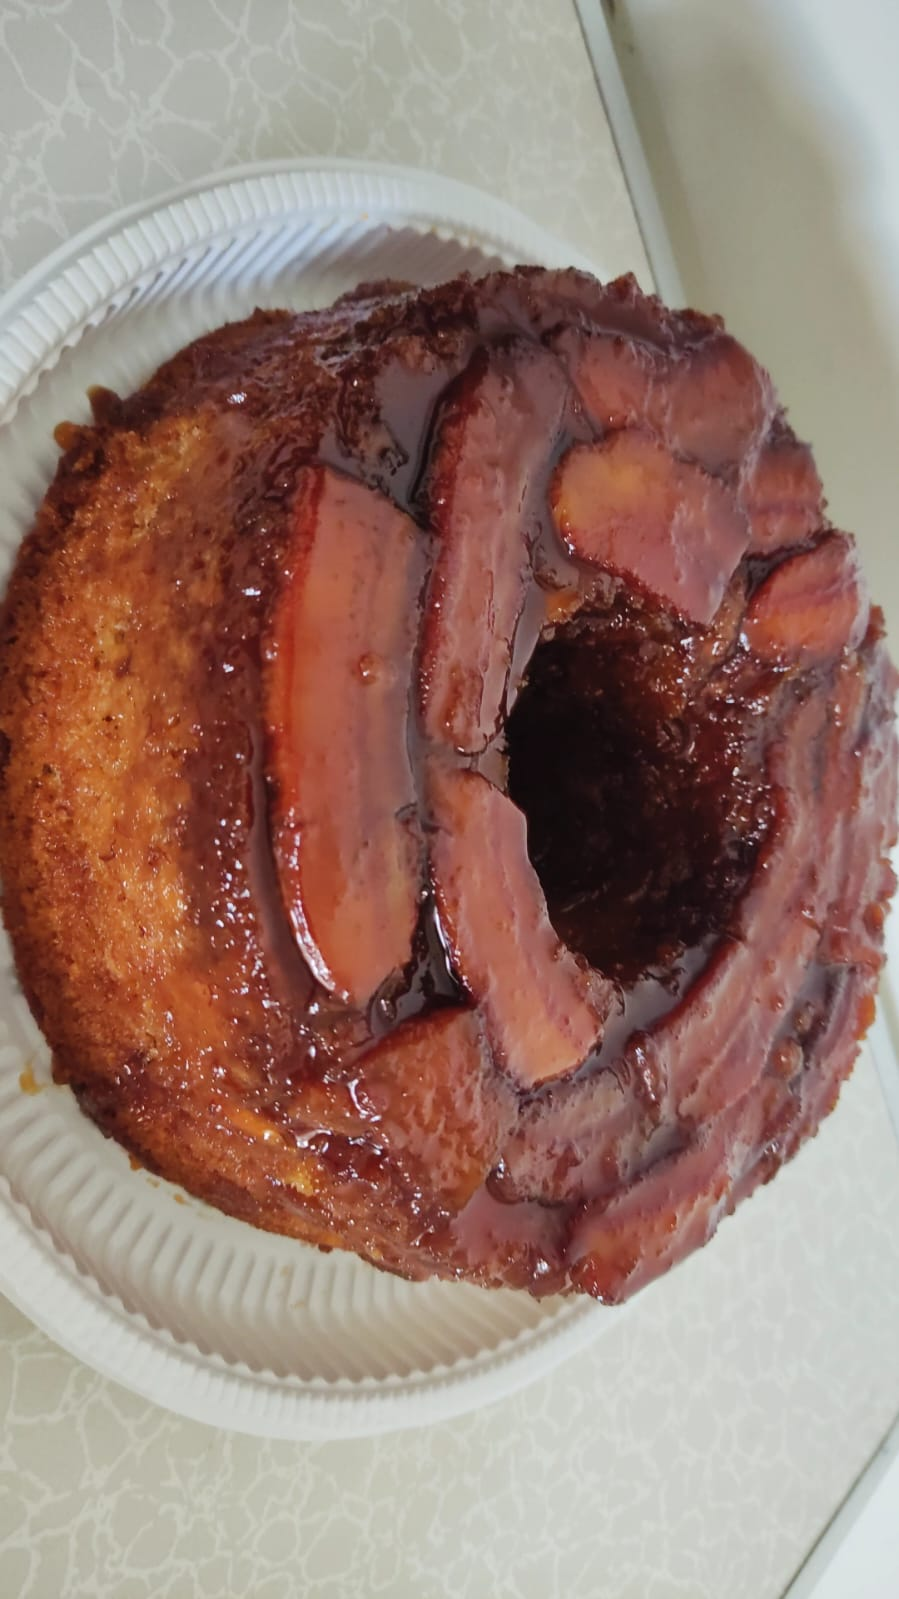
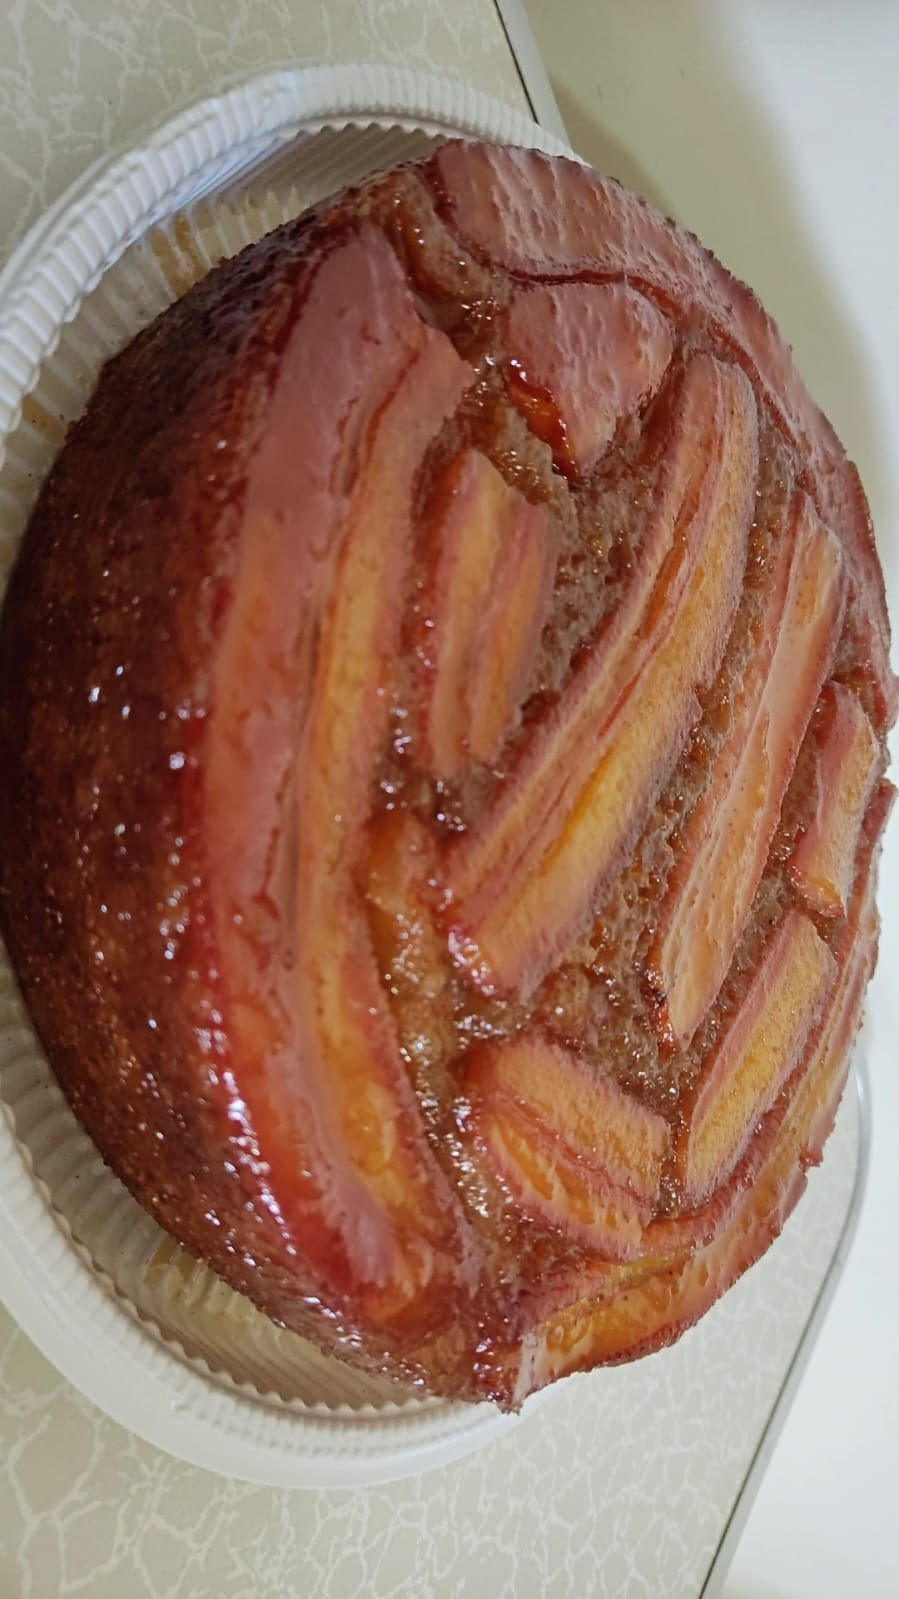
att fotos e tamanhos

diff --git a/src/components/Catalog.jsx b/src/components/Catalog.jsx
@@ -1,19 +1,28 @@
 import './Catalog.css'
 
 const cakes = [
-  { id: 1, name: "Bolo de Chocolate", description: "Delicioso bolo de chocolate com cobertura cremosa de chocolate.", price: 38, ativo: true, glutenFree: false, zeroAcucar: false, semLactose: false },
-  { id: 2, name: "Bolo de Paçoca", description: "Bolo saboroso de paçoca com cobertura especial de amendoim.", price: 40, ativo: true, glutenFree: false, zeroAcucar: false, semLactose: false },
-  { id: 3, name: "Bolo de Laranja", description: "Bolo fresquinho de laranja com calda caseira de laranja.", price: 35, ativo: true, glutenFree: false, zeroAcucar: false, semLactose: false },
-  { id: 4, name: "Bolo de Limão", description: "Bolo cítrico e refrescante com cobertura de limão.", price: 35, ativo: true, glutenFree: false, zeroAcucar: false, semLactose: false },
-  { id: 5, name: "Bolo de Fubá com Goiabada", description: "Tradicional bolo de fubá com goiabada.", price: 35, ativo: true, glutenFree: false, zeroAcucar: false, semLactose: false },
-  { id: 6, name: "Bolo de Milho com Coco", description: "Bolo caseiro de milho com coco ralado, sabor da roça.", price: 35, ativo: true, glutenFree: false, zeroAcucar: false, semLactose: false },
-  // { id: 7, name: "Bolo de Cenoura com Gotas", description: "Bolo fofinho de cenoura com gotas de chocolate na massa.", price: 38, ativo: true, glutenFree: false, zeroAcucar: false, semLactose: false },
-  { id: 8, name: "Bolo de Cenoura com Calda", description: "Clássico bolo de cenoura com calda generosa de chocolate.", price: 38, ativo: true, glutenFree: false, zeroAcucar: false, semLactose: false },
-  { id: 9, name: "Bolo de Coco", description: "Bolo macio de coco com cobertura cremosa de coco.", price: 35, ativo: true, glutenFree: false, zeroAcucar: false, semLactose: false },
-  { id: 10, name: "Bolo de Milho com Coco Zero Açúcar", description: "Versão especial do nosso bolo de milho, ideal para quem busca uma opção mais saudável.", price: 45, ativo: true, glutenFree: true, zeroAcucar: true, semLactose: false },
-  { id: 11, name: "Bolo de Banana", description: "Bolo caseiro de banana com pedaços de banana, macio e aromático, perfeito para o café da tarde.", price: 38, ativo: true, glutenFree: false, zeroAcucar: false, semLactose: false },
-  { id: 12, name: "Torta de Banana", description: "Deliciosa torta com pedaços de banana, canela e cobertura de calda de caramelo com bananas.", price: 48, ativo: true, glutenFree: false, zeroAcucar: false, semLactose: false }
+  { id: 8,  name: "Bolo de Cenoura com Calda",                   description: "Clássico bolo de cenoura com calda generosa de chocolate.",                                  image: 8,  prices: { M: 27, G: 42 }, ativo: true, glutenFree: false, zeroAcucar: false, semLactose: false },
+  { id: 7,  name: "Bolo de Cenoura com Gotas",                   description: "Bolo fofinho de cenoura com gotas de chocolate na massa.",                                   image: 7,  prices: { M: 25, G: 40 }, ativo: true, glutenFree: false, zeroAcucar: false, semLactose: false },
+  { id: 1,  name: "Bolo de Chocolate com Calda",                 description: "Delicioso bolo de chocolate com cobertura cremosa de chocolate.",                            image: 1,  prices: { M: 27, G: 42 }, ativo: true, glutenFree: false, zeroAcucar: false, semLactose: false },
+  { id: 11, name: "Bolo de Banana com Canela",                   description: "Bolo caseiro de banana com canela, macio e aromático, perfeito para o café da tarde.",       image: 11, prices: { M: 25, G: 38 }, ativo: true, glutenFree: false, zeroAcucar: false, semLactose: false },
+  { id: 3,  name: "Bolo de Laranja com Cobertura",               description: "Bolo fresquinho de laranja com calda caseira de laranja.",                                   image: 3,  prices: { M: 25, G: 38 }, ativo: true, glutenFree: false, zeroAcucar: false, semLactose: false },
+  { id: 4,  name: "Bolo de Limão com Cobertura",                 description: "Bolo cítrico e refrescante com cobertura de limão.",                                         image: 4,  prices: { M: 25, G: 38 }, ativo: true, glutenFree: false, zeroAcucar: false, semLactose: false },
+  { id: 5,  name: "Bolo de Fubá com Goiabada",                   description: "Tradicional bolo de fubá com goiabada.",                                                     image: 5,  prices: { M: 25, G: 38 }, ativo: true, glutenFree: false, zeroAcucar: false, semLactose: false },
+  { id: 2,  name: "Bolo de Paçoca com Cobertura",                description: "Bolo saboroso de paçoca com cobertura especial de amendoim.",                                 image: 2,  prices: { M: 28, G: 40 }, ativo: true, glutenFree: false, zeroAcucar: false, semLactose: false },
+  { id: 6,  name: "Bolo de Milho com Coco",                      description: "Bolo caseiro de milho com coco ralado, sabor da roça.",                                      image: 6,  prices: { M: 25, G: 38 }, ativo: true, glutenFree: false, zeroAcucar: false, semLactose: false },
+  { id: 9,  name: "Bolo de Coco",                                description: "Bolo macio de coco com cobertura cremosa de coco.",                                          image: 9,  prices: { M: 25, G: 38 }, ativo: true, glutenFree: false, zeroAcucar: false, semLactose: false },
+  { id: 12, name: "Torta de Banana",                             description: "Deliciosa torta com pedaços de banana, canela e cobertura de calda de caramelo com bananas.", image: 12, prices: { G: 50 },        ativo: true, glutenFree: false, zeroAcucar: false, semLactose: false },
+
+  // Zero açúcar
+  { id: 13, name: "Bolo de Banana com Canela ",            description: "Versão zero açúcar do nosso bolo de banana com canela, para quem busca uma opção mais saudável.", image: 11, prices: { M: 35, G: 50 }, ativo: true, glutenFree: false, zeroAcucar: true,  semLactose: false },
+  { id: 10, name: "Bolo de Milho com Coco ",               description: "Versão zero açúcar do nosso bolo de milho com coco, ideal para quem busca uma opção mais saudável.", image: 10, prices: { M: 35, G: 48 }, ativo: true, glutenFree: true,  zeroAcucar: true,  semLactose: false },
+  { id: 14, name: "Bolo de Cenoura  – Sem Calda",          description: "Versão zero açúcar do bolo de cenoura, sem cobertura, para quem busca uma opção mais leve.",  image: 7,  prices: { M: 30, G: 48 }, ativo: false, glutenFree: false, zeroAcucar: true,  semLactose: false },
+  { id: 15, name: "Bolo de Cenoura  com Calda de Chocolate", description: "Versão zero açúcar do bolo de cenoura com calda de chocolate sem açúcar.",                  image: 8,  prices: { M: 35, G: 58 }, ativo: true, glutenFree: false, zeroAcucar: true,  semLactose: false },
+  { id: 16, name: "Bolo de Chocolate  – Sem Calda",        description: "Versão zero açúcar do bolo de chocolate, sem cobertura, para quem busca uma opção mais leve.", image: 1,  prices: { M: 30, G: 48 }, ativo: false, glutenFree: false, zeroAcucar: true,  semLactose: false },
+  { id: 17, name: "Bolo de Chocolate  com Calda de Chocolate", description: "Versão zero açúcar do bolo de chocolate com calda de chocolate sem açúcar.",              image: 1,  prices: { M: 35, G: 58 }, ativo: true, glutenFree: false, zeroAcucar: true,  semLactose: false }
 ]
+
+const formatBRL = (value) => `R$ ${value.toFixed(2).replace('.', ',')}`
 
 function Catalog() {
   const whatsappNumber = "5527999753620"
@@ -33,7 +42,7 @@ function Catalog() {
           {cakes.filter(cake => cake.ativo).map((cake) => (
             <div key={cake.id} className="cake-card">
               <div className="cake-image">
-                <img src={`/bolos/${cake.id}.jpeg`} alt={cake.name} />
+                <img src={`/bolos/${cake.image ?? cake.id}.jpeg`} alt={cake.name} />
                 <div className="cake-badges">
                   {cake.glutenFree && (
                     <span className="badge badge-gluten">
@@ -67,7 +76,14 @@ function Catalog() {
               <div className="cake-info">
                 <h3>{cake.name}</h3>
                 <p>{cake.description}</p>
-                <span className="cake-price">R$ {cake.price.toFixed(2).replace('.', ',')}</span>
+                <ul className="cake-prices">
+                  {Object.entries(cake.prices).map(([size, value]) => (
+                    <li key={size} className="cake-price-row">
+                      <span className="cake-price-size">{size}</span>
+                      <span className="cake-price-value">{formatBRL(value)}</span>
+                    </li>
+                  ))}
+                </ul>
                 <button
                   onClick={() => handleOrder(cake.name)}
                   className="btn btn-whatsapp cake-btn"
@@ -82,7 +98,10 @@ function Catalog() {
           ))}
         </div>
 
-        <p className="delivery-note">* Bolos com peso médio de 1kg<br />Taxa de entrega: valores a combinar</p>
+        <p className="delivery-note">
+          * Peso médio: M (500–650g) | G (900g–1,1kg)
+          <br />Taxa de entrega: valores a combinar
+        </p>
       </div>
     </section>
   )

diff --git a/src/components/Catalog.css b/src/components/Catalog.css
@@ -93,12 +93,41 @@
   line-height: 1.5;
 }
 
-.cake-price {
-  display: block;
-  font-size: 1.1rem;
+.cake-prices {
+  list-style: none;
+  padding: 0;
+  margin: 0 0 15px;
+  display: flex;
+  flex-direction: column;
+  gap: 4px;
+}
+
+.cake-price-row {
+  display: flex;
+  align-items: baseline;
+  gap: 10px;
+  font-size: 1.05rem;
   font-weight: 600;
   color: var(--gold);
-  margin-bottom: 15px;
+}
+
+.cake-price-size {
+  display: inline-flex;
+  align-items: center;
+  justify-content: center;
+  min-width: 28px;
+  height: 24px;
+  padding: 0 6px;
+  border-radius: 6px;
+  background: rgba(0, 0, 0, 0.06);
+  color: var(--dark);
+  font-size: 0.8rem;
+  font-weight: 700;
+  letter-spacing: 0.5px;
+}
+
+.cake-price-value {
+  font-variant-numeric: tabular-nums;
 }
 
 .cake-btn {

diff --git a/CLAUDE.md b/CLAUDE.md
@@ -1,0 +1,38 @@
+# CLAUDE.md
+
+This file provides guidance to Claude Code (claude.ai/code) when working with code in this repository.
+
+## Project
+
+Static React + Vite landing page (single-page, no router) for **LeneBolos**, a homemade cake catalog based in Vila Velha/ES, Brazil. Content and UI strings are in Portuguese (pt-BR). Deployed to Vercel (see `.vercel/`).
+
+## Commands
+
+```bash
+npm install        # install deps
+npm run dev        # Vite dev server
+npm run build      # production build -> dist/
+npm run preview    # serve the built dist/ locally
+```
+
+There is no test, lint, or typecheck script — the project is plain JS/JSX with no TypeScript and no test framework configured.
+
+## Architecture
+
+- `src/main.jsx` mounts `<App />` into `#root` (see `index.html`).
+- `src/App.jsx` is a flat layout: `Header`, `main` containing `Hero` / `Catalog` / `About`, then `Footer`, with `WhatsAppButton` as a fixed-position floating CTA.
+- Each component in `src/components/` owns its `.css` sibling (e.g. `Catalog.jsx` + `Catalog.css`). There is no CSS module / styled-component / utility framework — plain CSS imported per component, plus globals in `src/index.css`.
+- All "calls to action" funnel to WhatsApp via `https://wa.me/<number>?text=<encoded-message>` opened in a new tab. The number `[phone redacted]` (and the display form `(27) [phone redacted]`) is **hardcoded and duplicated** across `Hero.jsx`, `Catalog.jsx`, `Footer.jsx`, and `WhatsAppButton.jsx` — if it changes, update all four.
+
+## Catalog data
+
+The cake catalog is a hardcoded `cakes` array at the top of `src/components/Catalog.jsx`. There is no backend or CMS. Conventions:
+
+- `id` is the canonical identifier; `image` (optional, falls back to `id`) selects the file at `/public/bolos/<image>.jpeg`. Variants that share a photo (e.g. zero-açúcar versions) reuse the regular cake's image by setting `image` to that cake's id.
+- `ativo: false` hides a cake from the rendered grid without deleting the entry (filter is applied in render).
+- Dietary badges are driven by booleans: `glutenFree`, `zeroAcucar`, `semLactose` — each renders a corresponding `.badge-*` chip with its own inline SVG.
+- `prices` is an object keyed by size code (`M`, `G`), values are numbers in BRL. The card renders one row per size; cakes sold in a single size (e.g. Torta) just omit the other key. Values are formatted by `formatBRL` as `R$ X,YZ` (comma decimal).
+
+## Assets
+
+Images and the logo live in `public/` and are referenced with root-absolute paths (`/hero.jpeg`, `/logo.png`, `/bolos/<id>.jpeg`). Don't import them through the JS module graph — Vite serves `public/` as-is.